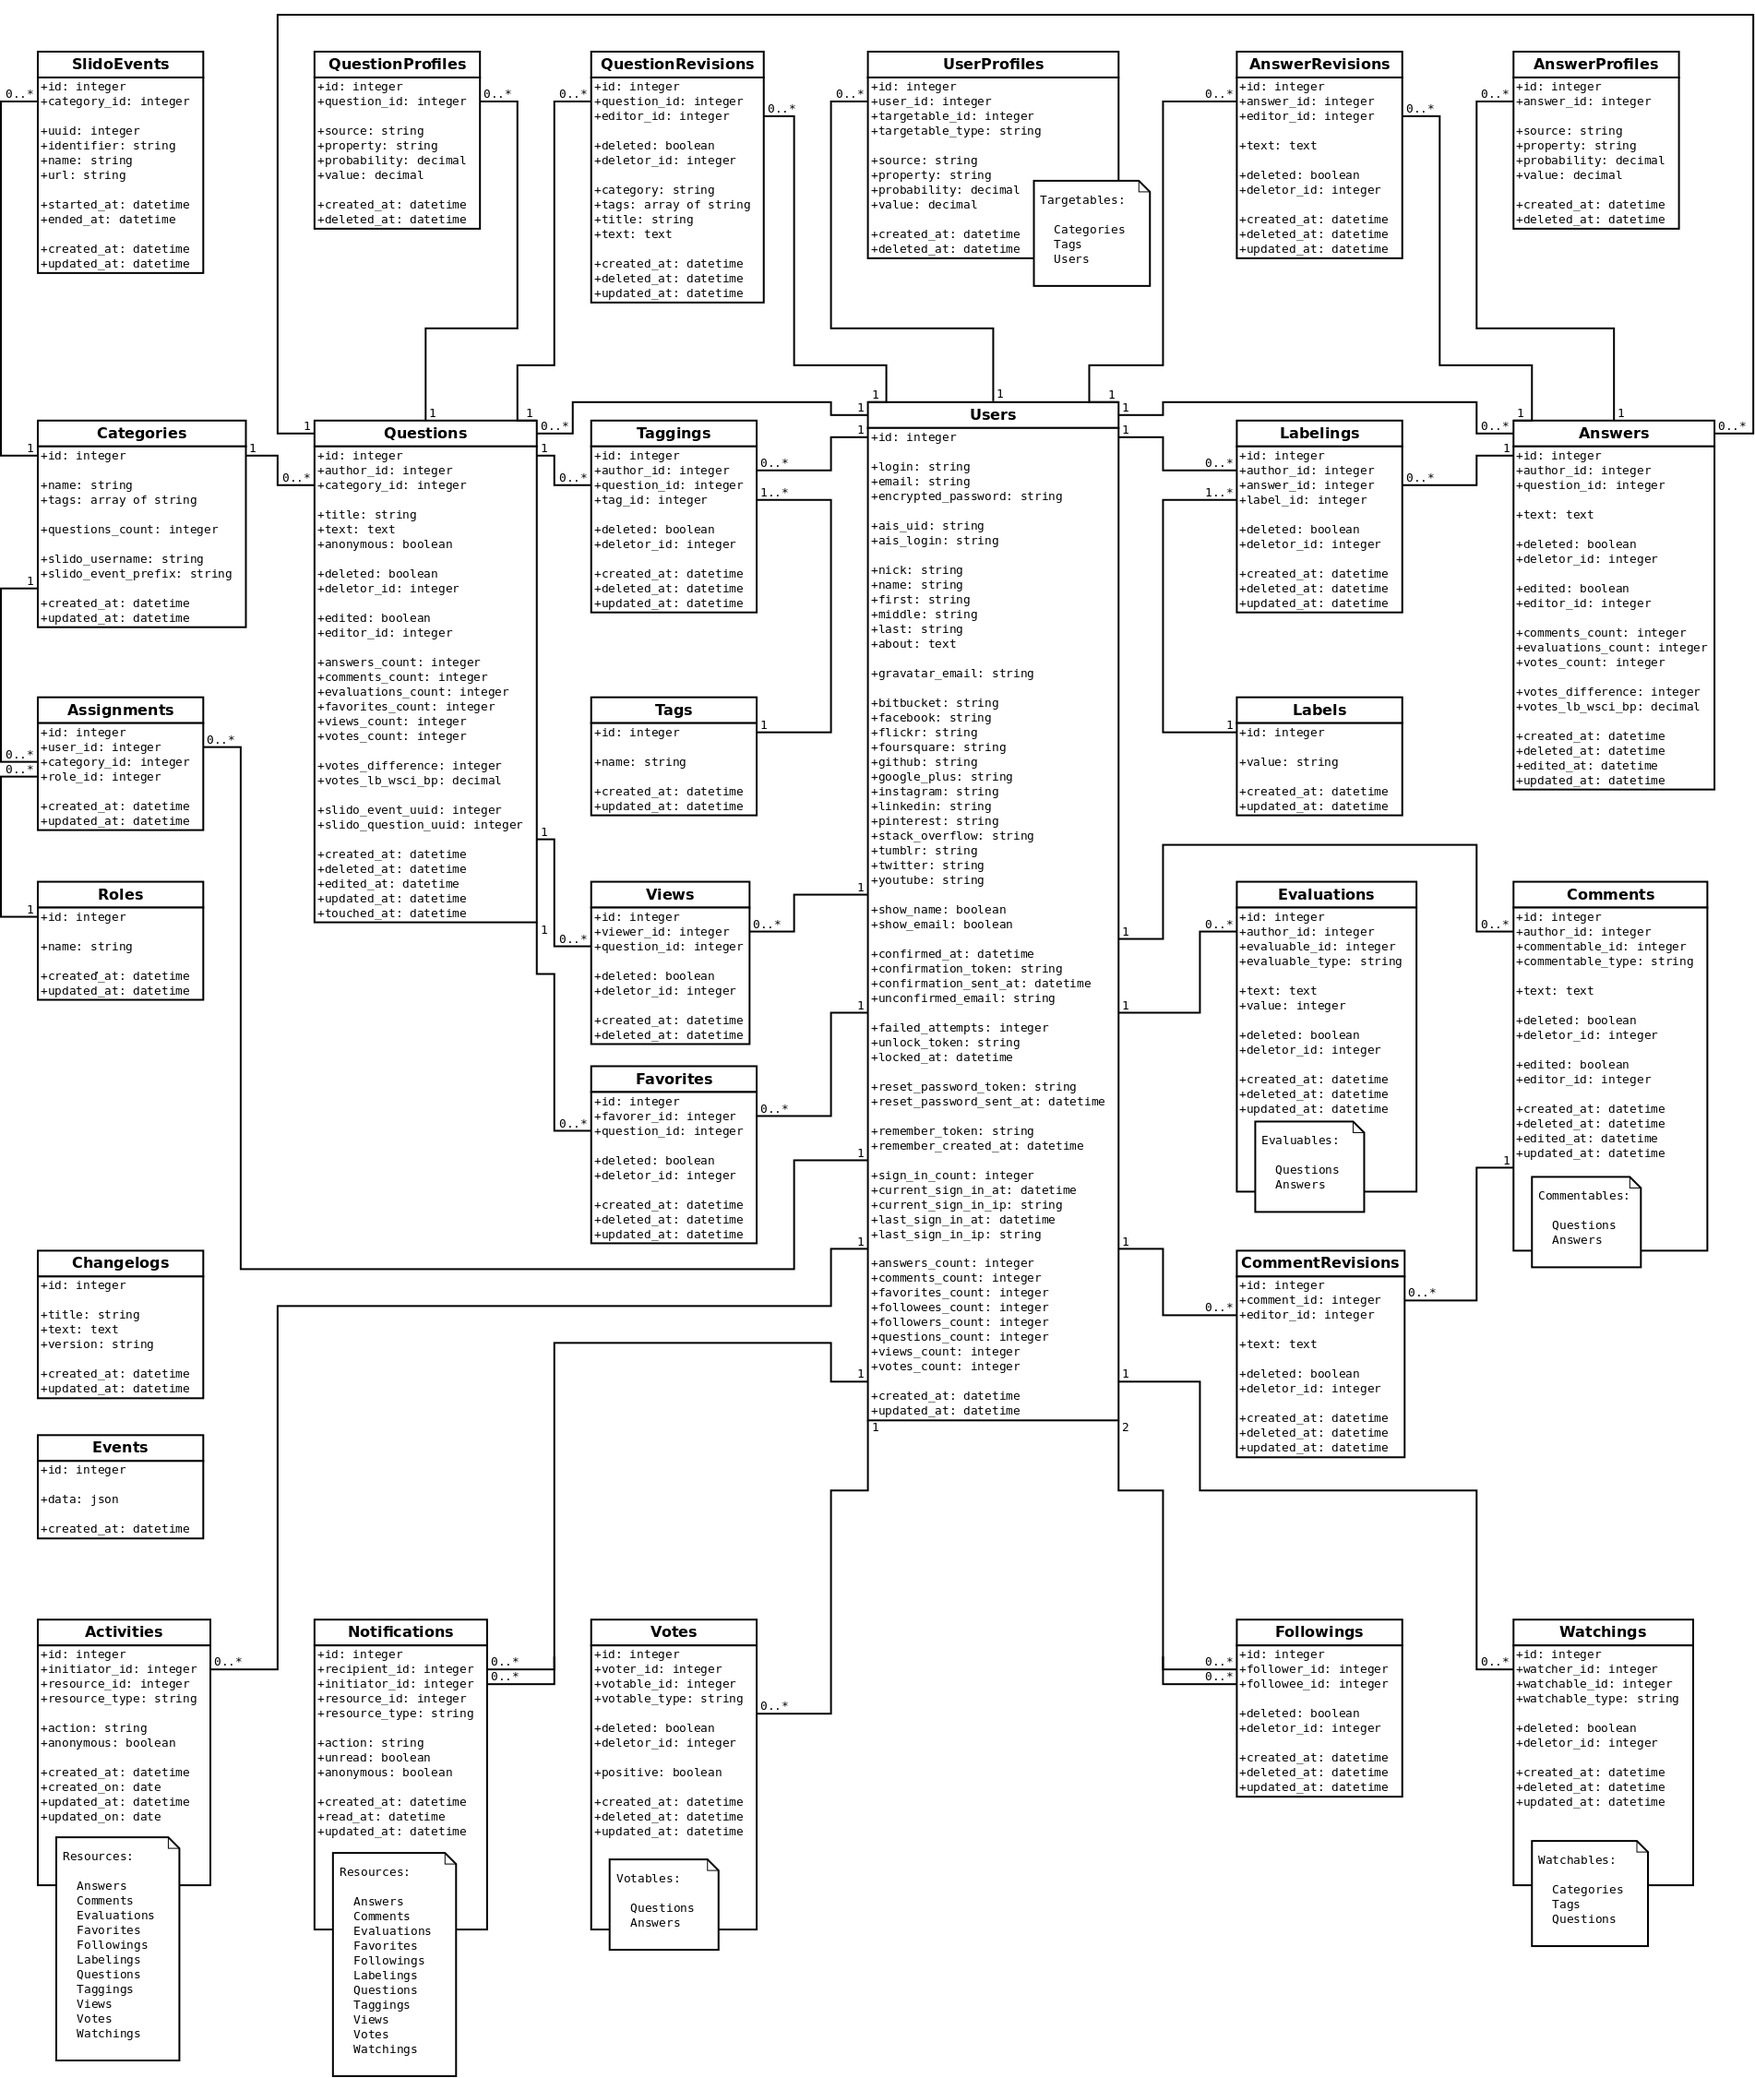
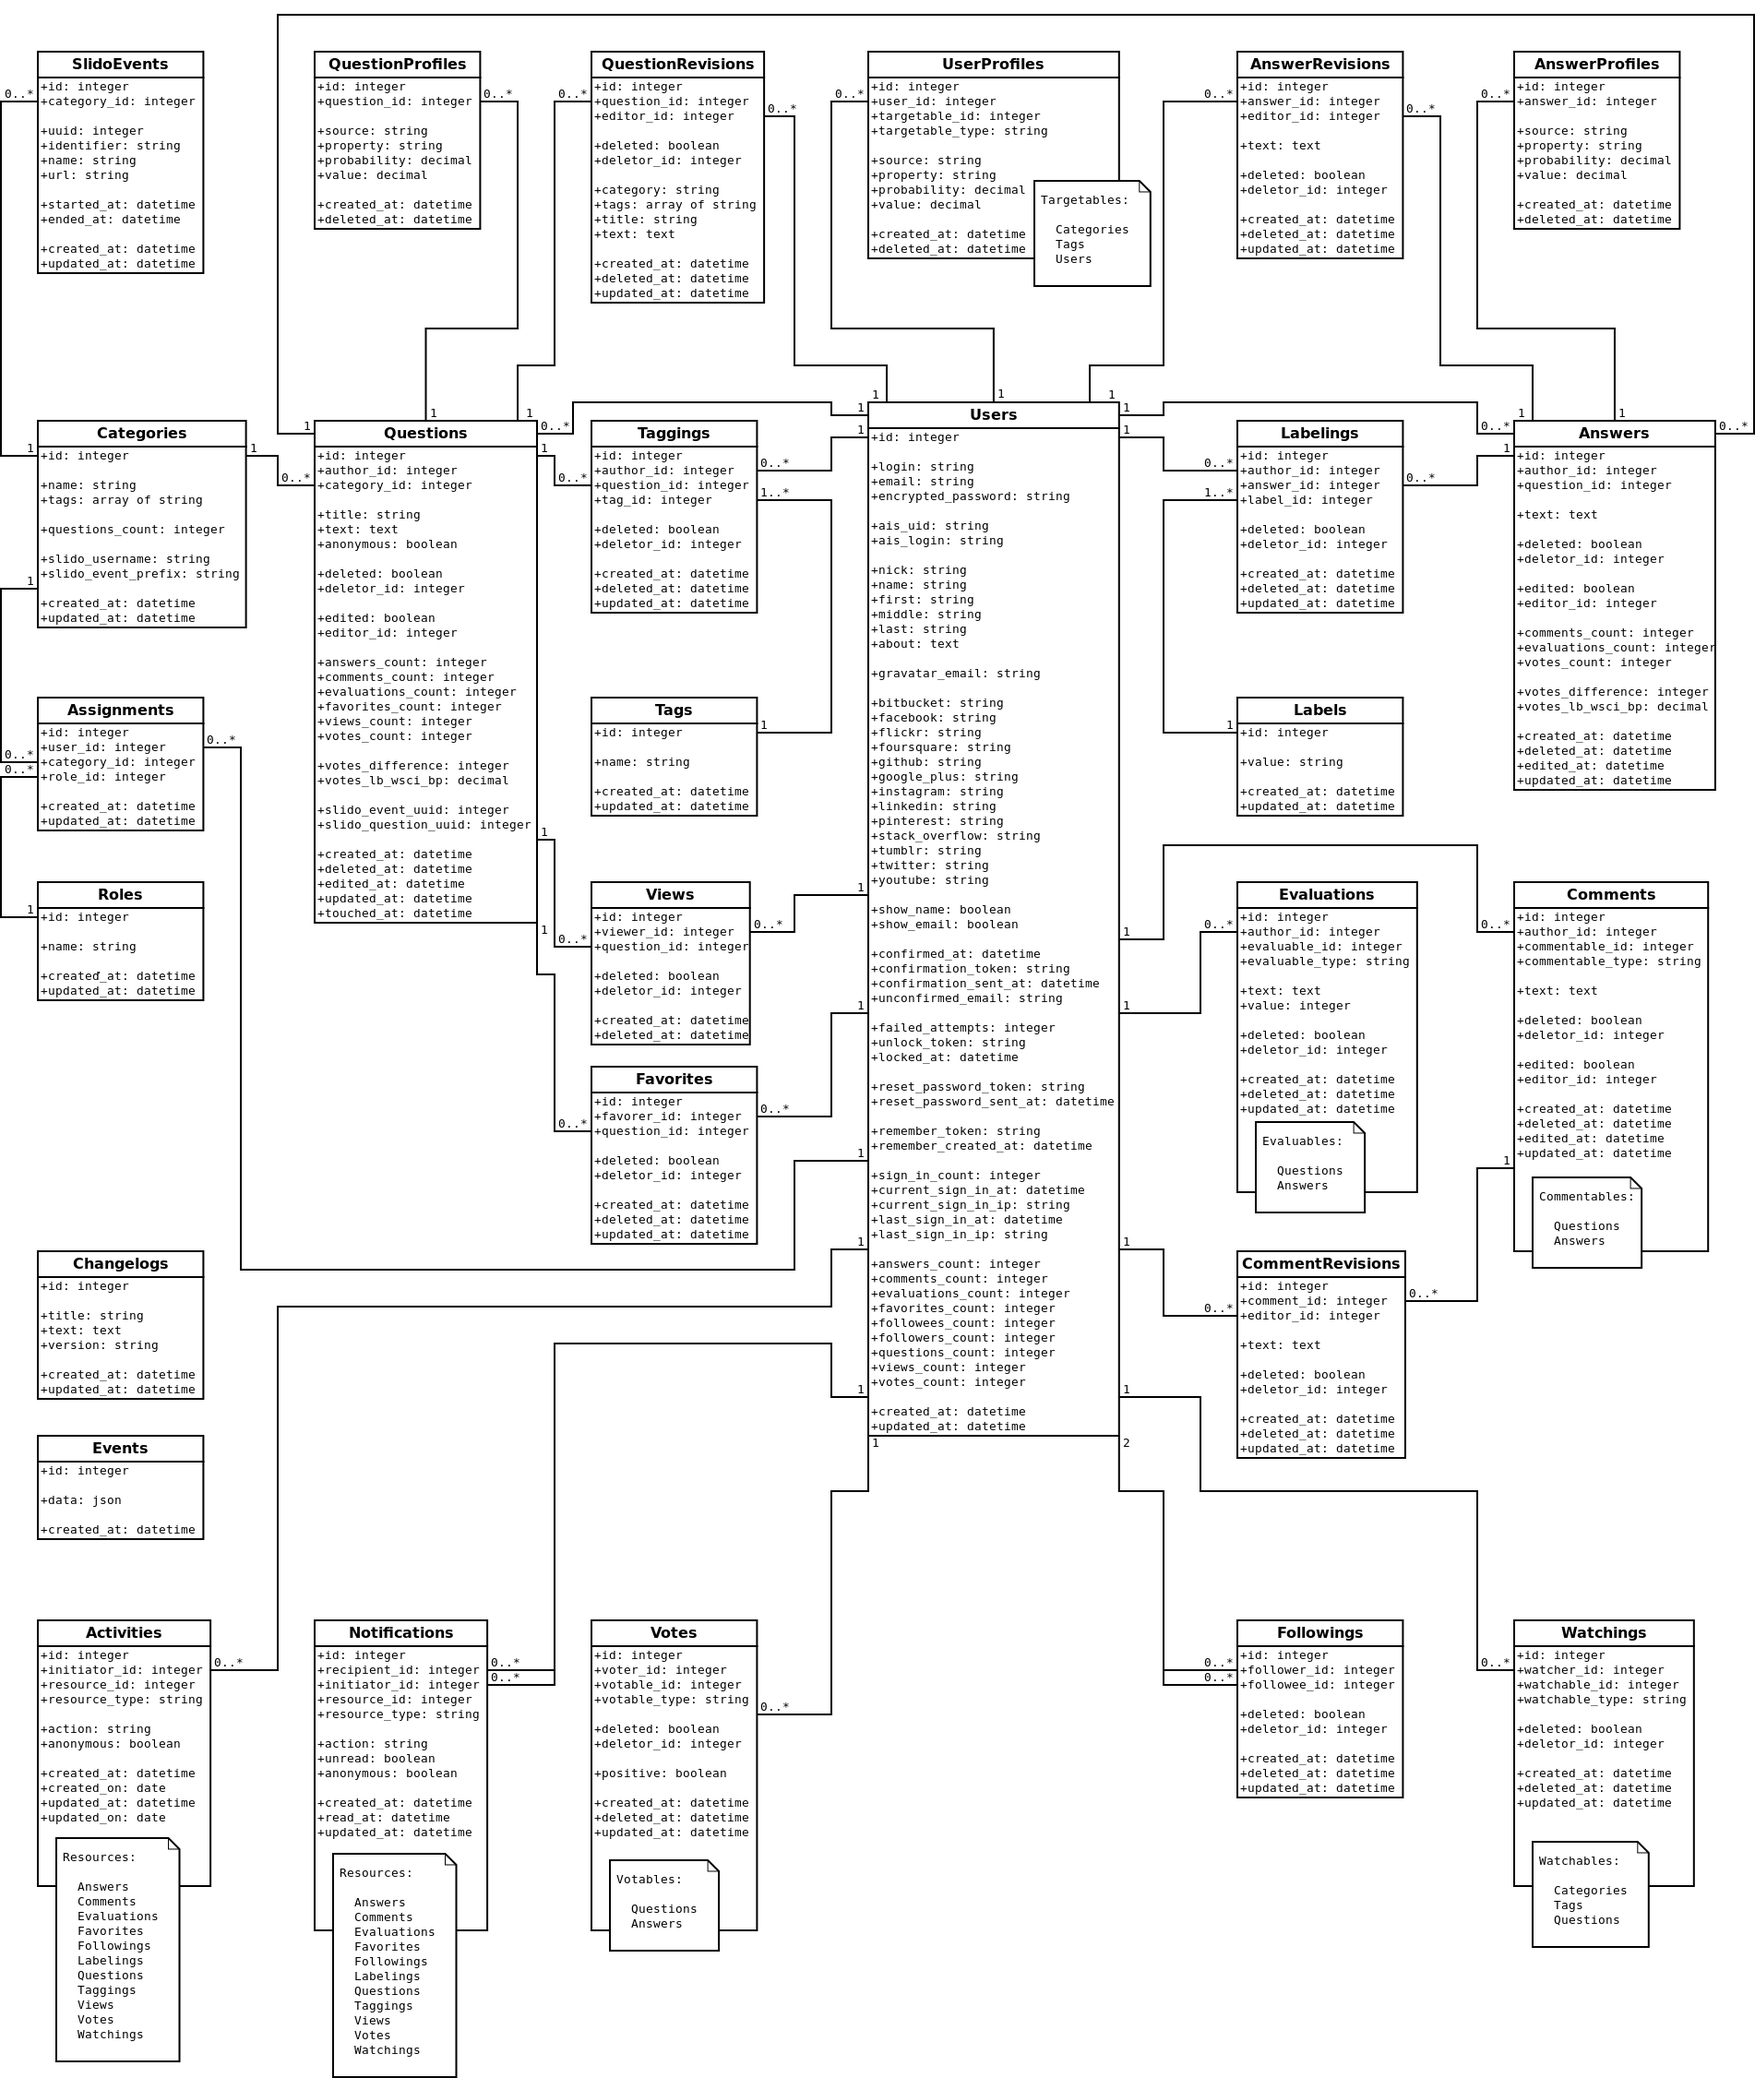
Add evaluations counter cache to users

diff --git a/db/schema.rb b/db/schema.rb
@@ -11,7 +11,7 @@
 #
 # It's strongly recommended that you check this file into your version control system.
 
-ActiveRecord::Schema.define(version: 20140423082147) do
+ActiveRecord::Schema.define(version: 20140423123809) do
 
   # These are extensions that must be enabled in order to support this database
   enable_extension "plpgsql"
@@ -43,8 +43,8 @@ ActiveRecord::Schema.define(version: 20140423082147) do
     t.datetime "created_at",                 null: false
     t.datetime "updated_at",                 null: false
     t.boolean  "deleted",    default: false, null: false
-    t.datetime "deleted_at"
     t.integer  "deletor_id"
+    t.datetime "deleted_at"
   end
 
   add_index "answer_revisions", ["answer_id"], name: "index_answer_revisions_on_answer_id", using: :btree
@@ -65,8 +65,8 @@ ActiveRecord::Schema.define(version: 20140423082147) do
     t.decimal  "votes_lb_wsci_bp",  precision: 13, scale: 12, default: 0.0,   null: false
     t.datetime "edited_at"
     t.integer  "editor_id"
-    t.datetime "deleted_at"
     t.integer  "deletor_id"
+    t.datetime "deleted_at"
     t.boolean  "edited",                                      default: false, null: false
     t.integer  "evaluations_count",                           default: 0,     null: false
   end
@@ -122,8 +122,8 @@ ActiveRecord::Schema.define(version: 20140423082147) do
     t.datetime "created_at",                 null: false
     t.datetime "updated_at",                 null: false
     t.boolean  "deleted",    default: false, null: false
-    t.datetime "deleted_at"
     t.integer  "deletor_id"
+    t.datetime "deleted_at"
   end
 
   add_index "comment_revisions", ["comment_id"], name: "index_comment_revisions_on_comment_id", using: :btree
@@ -141,8 +141,8 @@ ActiveRecord::Schema.define(version: 20140423082147) do
     t.boolean  "deleted",          default: false, null: false
     t.datetime "edited_at"
     t.integer  "editor_id"
-    t.datetime "deleted_at"
     t.integer  "deletor_id"
+    t.datetime "deleted_at"
     t.boolean  "edited",           default: false, null: false
   end
 
@@ -161,8 +161,8 @@ ActiveRecord::Schema.define(version: 20140423082147) do
     t.datetime "created_at"
     t.datetime "updated_at"
     t.boolean  "deleted",        default: false, null: false
-    t.datetime "deleted_at"
     t.integer  "deletor_id"
+    t.datetime "deleted_at"
   end
 
   add_index "evaluations", ["author_id"], name: "index_evaluations_on_author_id", using: :btree
@@ -183,8 +183,8 @@ ActiveRecord::Schema.define(version: 20140423082147) do
     t.datetime "created_at",                  null: false
     t.datetime "updated_at",                  null: false
     t.boolean  "deleted",     default: false, null: false
-    t.datetime "deleted_at"
     t.integer  "deletor_id"
+    t.datetime "deleted_at"
   end
 
   add_index "favorites", ["deleted"], name: "index_favorites_on_deleted", using: :btree
@@ -216,8 +216,8 @@ ActiveRecord::Schema.define(version: 20140423082147) do
     t.datetime "created_at",                 null: false
     t.datetime "updated_at",                 null: false
     t.boolean  "deleted",    default: false, null: false
-    t.datetime "deleted_at"
     t.integer  "deletor_id"
+    t.datetime "deleted_at"
   end
 
   add_index "labelings", ["answer_id", "label_id", "author_id"], name: "index_labelings_on_unique_key", unique: true, using: :btree
@@ -267,8 +267,8 @@ ActiveRecord::Schema.define(version: 20140423082147) do
     t.datetime "created_at",                  null: false
     t.datetime "updated_at",                  null: false
     t.boolean  "deleted",     default: false, null: false
-    t.datetime "deleted_at"
     t.integer  "deletor_id"
+    t.datetime "deleted_at"
   end
 
   add_index "question_revisions", ["deleted"], name: "index_question_revisions_on_deleted", using: :btree
@@ -293,12 +293,12 @@ ActiveRecord::Schema.define(version: 20140423082147) do
     t.integer  "slido_question_uuid"
     t.integer  "slido_event_uuid"
     t.boolean  "deleted",                                       default: false, null: false
-    t.decimal  "votes_lb_wsci_bp",    precision: 13, scale: 12, default: 0.0,   null: false
     t.datetime "touched_at",                                                    null: false
+    t.decimal  "votes_lb_wsci_bp",    precision: 13, scale: 12, default: 0.0,   null: false
     t.datetime "edited_at"
     t.integer  "editor_id"
-    t.datetime "deleted_at"
     t.integer  "deletor_id"
+    t.datetime "deleted_at"
     t.boolean  "edited",                                        default: false, null: false
     t.integer  "evaluations_count",                             default: 0,     null: false
   end
@@ -346,8 +346,8 @@ ActiveRecord::Schema.define(version: 20140423082147) do
     t.datetime "created_at",                  null: false
     t.datetime "updated_at",                  null: false
     t.boolean  "deleted",     default: false, null: false
-    t.datetime "deleted_at"
     t.integer  "deletor_id"
+    t.datetime "deleted_at"
     t.integer  "author_id",                   null: false
   end
 
@@ -421,6 +421,7 @@ ActiveRecord::Schema.define(version: 20140423082147) do
     t.string   "remember_token"
     t.integer  "followers_count",        default: 0,         null: false
     t.integer  "followees_count",        default: 0,         null: false
+    t.integer  "evaluations_count",      default: 0,         null: false
   end
 
   add_index "users", ["ais_login"], name: "index_users_on_ais_login", unique: true, using: :btree
@@ -442,8 +443,8 @@ ActiveRecord::Schema.define(version: 20140423082147) do
     t.integer  "viewer_id",                   null: false
     t.datetime "created_at",                  null: false
     t.boolean  "deleted",     default: false, null: false
-    t.datetime "deleted_at"
     t.integer  "deletor_id"
+    t.datetime "deleted_at"
   end
 
   add_index "views", ["deleted"], name: "index_views_on_deleted", using: :btree
@@ -459,8 +460,8 @@ ActiveRecord::Schema.define(version: 20140423082147) do
     t.datetime "created_at",                   null: false
     t.datetime "updated_at",                   null: false
     t.boolean  "deleted",      default: false, null: false
-    t.datetime "deleted_at"
     t.integer  "deletor_id"
+    t.datetime "deleted_at"
   end
 
   add_index "votes", ["deleted"], name: "index_votes_on_deleted", using: :btree

diff --git a/db/migrate/20140423123809_add_evaluations_count_to_users.rb b/db/migrate/20140423123809_add_evaluations_count_to_users.rb
@@ -1,0 +1,9 @@
+class AddEvaluationsCountToUsers < ActiveRecord::Migration
+  def up
+    add_counter :users, :evaluations
+  end
+
+  def down
+    remove_counter :users, :evaluations
+  end
+end
